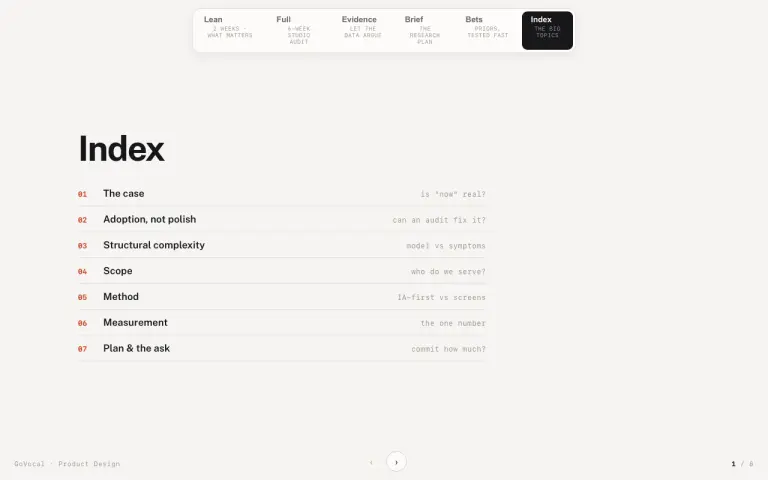
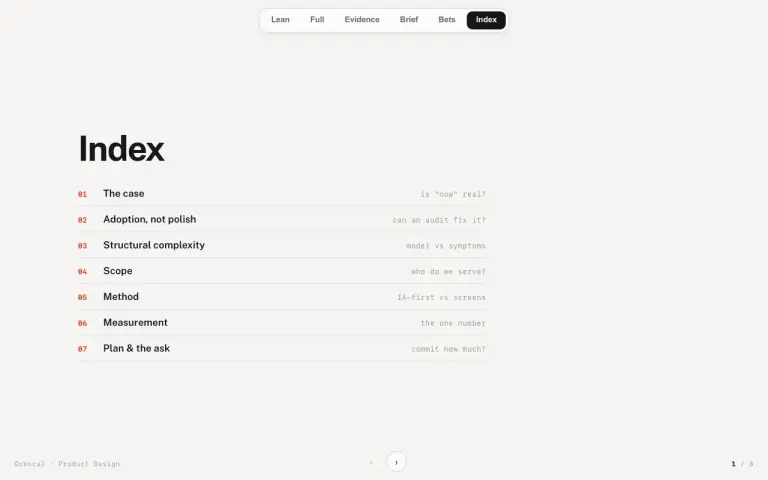
uxui-audit Index: outline-only topic slides; drop selector subtitles

Changed region(s): [[0.3438, 0.0, 0.75, 0.125], [0.25, 0.0312, 0.3125, 0.0938]]

diff --git a/playground/uxui-audit-project/index.html b/playground/uxui-audit-project/index.html
@@ -191,12 +191,12 @@
 <body data-mode="index">
 
   <nav class="switch" id="switch">
-    <button data-m="lean"><span class="t">Lean</span><span class="s">2 weeks · what matters</span></button>
-    <button data-m="full"><span class="t">Full</span><span class="s">6-week studio audit</span></button>
-    <button data-m="evidence"><span class="t">Evidence</span><span class="s">let the data argue</span></button>
-    <button data-m="brief"><span class="t">Brief</span><span class="s">the research plan</span></button>
-    <button data-m="bets"><span class="t">Bets</span><span class="s">priors, tested fast</span></button>
-    <button data-m="index" class="on"><span class="t">Index</span><span class="s">the big topics</span></button>
+    <button data-m="lean"><span class="t">Lean</span></button>
+    <button data-m="full"><span class="t">Full</span></button>
+    <button data-m="evidence"><span class="t">Evidence</span></button>
+    <button data-m="brief"><span class="t">Brief</span></button>
+    <button data-m="bets"><span class="t">Bets</span></button>
+    <button data-m="index" class="on"><span class="t">Index</span></button>
   </nav>
   <div class="progress" id="progress"></div>
 
@@ -965,92 +965,84 @@
 
     <section class="slide">
       <div class="slide-inner">
-        <p class="eyebrow">01 · the case</p>
-        <h2>Why now — or are we manufacturing the urgency?</h2>
-        <p class="lead">Three forces converge: <b>cost</b> (393 dispatch tickets, 68 still open), <b>competition</b> (Polis on deliberation, EngagementHQ on back-office maturity), and <b>compliance</b> (the European Accessibility Act in force since June 2025).</p>
-        <div class="grid g2">
-          <div class="card"><span class="lab">The honest case</span><p>The backlog is real and dated; the law has a deadline that already passed. This isn't a hunch — it's evidence with timestamps.</p></div>
-          <div class="card kill"><span class="lab">The challenge to it</span><p>A live sweep showed the product already fixed several old findings. Are we riding genuine urgency — or dressing a standing wish as a crisis?</p></div>
-        </div>
-        <div class="seam"><b>Decide Friday:</b> which single force leads the story? Compliance makes it a gate, not a vision. Adoption makes the tickets a sideshow. We can't headline all three.</div>
+        <h2>1 · The case — why now</h2>
+        <ul class="clean">
+          <li><b>Cost</b> — the 2026 support backlog (393 tickets, 68 open)</li>
+          <li><b>Competition</b> — Polis, EngagementHQ, Decidim</li>
+          <li><b>Compliance</b> — European Accessibility Act in force</li>
+        </ul>
       </div>
     </section>
 
     <section class="slide">
       <div class="slide-inner">
-        <p class="eyebrow">02 · adoption, not polish</p>
-        <h2>The real problem is adoption. Can a UX/UI audit even fix that?</h2>
-        <p class="lead">Your brief leads here: project managers aren't adopting, infrequent users can't find their way back in, the tool feels too complex. "How might we get more people using it, sooner."</p>
-        <div class="grid g2">
-          <div class="card"><span class="lab">If it's a UX problem</span><p>Then findability, nesting and onboarding are the levers — an audit's home turf, and we can move them in weeks.</p></div>
-          <div class="card kill"><span class="lab">If it's a product problem</span><p>Then the fix is sunsetting features, changing workflows, integrating with Microsoft / SharePoint — beyond what a screen audit can touch.</p></div>
-        </div>
-        <div class="seam"><b>Decide Friday:</b> how far past "UI" is this audit allowed to range? If adoption is the goal, we may recommend killing features and rewiring workflows. Is that the mandate — or are we scoped to polish?</div>
+        <h2>2 · Adoption, not polish</h2>
+        <ul class="clean">
+          <li>PMs not adopting; infrequent users can't find their way back in</li>
+          <li>The tool feels too complex</li>
+          <li>Goal — more people using it, sooner</li>
+          <li>A UX problem, or a product / operating-model one?</li>
+        </ul>
       </div>
     </section>
 
     <section class="slide">
       <div class="slide-inner">
-        <p class="eyebrow">03 · structural complexity</p>
-        <h2>The complexity <span class="accent">is the model.</span> You can't restyle it away.</h2>
-        <p class="lead">Eleven back-office destinations, a survey edit six URL levels below <code>/admin</code>, the same setting (tags, access-rights, emails) configured in two homes — all projections of one spine: Project → Phase → Method.</p>
-        <div class="grid g2">
-          <div class="card"><span class="lab">Preserve, re-surface</span><p>Keep the expressive model; hide it behind progressive disclosure + templates so the simple town gets a short path. Choice A in your architecture map.</p></div>
-          <div class="card kill"><span class="lab">Challenge the model</span><p>Or go deeper — sunset folders / spaces, flatten the spine. But that's product and data-model work, not a redesign, and it needs engineering to cost.</p></div>
-        </div>
-        <div class="seam"><b>Decide Friday:</b> where's the line between <b>design</b> (changeable now) and <b>product / technical</b> (expensive, needs Koen &amp; James)? We need that line drawn before we promise an outcome.</div>
+        <h2>3 · Structural complexity</h2>
+        <ul class="clean">
+          <li>The Project → Phase → Method spine</li>
+          <li>Eleven back-office destinations</li>
+          <li>Same setting in two homes — tags, access-rights, emails</li>
+          <li>Sunsetting — folders / spaces</li>
+          <li>The design vs product / technical line</li>
+        </ul>
       </div>
     </section>
 
     <section class="slide">
       <div class="slide-inner">
-        <p class="eyebrow">04 · scope</p>
-        <h2>The whole loop — but who do we actually optimise for?</h2>
-        <p class="lead">One service, two surfaces: the resident front office (mobile) and the staff back office. Personas widen past power admins to <b>project managers and cross-department</b> users — plus residents (rare, engaged, skeptic).</p>
-        <div class="grid g2">
-          <div class="card"><span class="lab">Follow the evidence</span><p>The tickets are loudest on back-office <em>output trust</em> — reporting, AI-ignores-filter, emails. That's where the pain is countable.</p></div>
-          <div class="card kill"><span class="lab">Follow the brief</span><p>Adoption says lead with the infrequent PM getting in and finding their way — which the backlog barely registers. The two don't point the same way.</p></div>
-        </div>
-        <div class="seam"><b>Decide Friday:</b> wide (both surfaces, thin) or deep (one surface, one segment)? Six weeks won't do both surfaces justice — we pick depth, or we pick coverage.</div>
+        <h2>4 · Scope</h2>
+        <ul class="clean">
+          <li>Two surfaces — front office (mobile) + back office</li>
+          <li>The whole loop, as one service</li>
+          <li>Personas — project managers, cross-department, residents</li>
+          <li>Dimensions — usability / IA, AI-trust, accessibility</li>
+        </ul>
       </div>
     </section>
 
     <section class="slide">
       <div class="slide-inner">
-        <p class="eyebrow">05 · method</p>
-        <h2>Workflows &amp; IA first — even though auditing screens is faster.</h2>
-        <p class="lead">Your steer: map core workflows and information architecture <em>before</em> any design. The studio spine underneath — Double Diamond, service blueprint, method-for-the-question, triangulate qual + quant.</p>
-        <div class="grid g2">
-          <div class="card"><span class="lab">Audit the screens</span><p>Fast, evidence-rich, already underway — but risks fixing symptoms on top of a structure we never questioned.</p></div>
-          <div class="card kill"><span class="lab">Map IA blank-slate</span><p>Slower, more strategic — the brief's ask. Holds us to "problems are clear, solutions aren't": validate direction before committing six months.</p></div>
-        </div>
-        <div class="seam"><b>Decide Friday:</b> how much do we validate before we build? A two-week probe sprint, or a six-week IA-first study? Same evidence, very different cadence.</div>
+        <h2>5 · Method</h2>
+        <ul class="clean">
+          <li>Workflows &amp; IA first, then design</li>
+          <li>Double Diamond + service blueprint</li>
+          <li>Method → question; triangulate qual + quant</li>
+          <li>Problem confidence vs solution confidence</li>
+        </ul>
       </div>
     </section>
 
     <section class="slide">
       <div class="slide-inner">
-        <p class="eyebrow">06 · measurement</p>
-        <h2>If we can't baseline it <span class="accent">now,</span> we can't prove we fixed it.</h2>
-        <p class="lead">Capture a baseline before any change — NPS plus task-success on the core jobs — and re-measure the same tasks after. It's the only defensible ROI claim.</p>
-        <div class="grid g2">
-          <div class="card"><span class="lab">The candidates</span><p>Satisfaction (NPS) · adoption (active PMs, return rate) · cost (ticket volume) · civic (participation, representativeness — who showed up vs the city).</p></div>
-          <div class="card kill"><span class="lab">The honesty flag</span><p>SUS ≈68, SEQ ≈5.5, ~78% success are <em>industry</em> averages — useful to start, but we must re-base on our own data or the comparison lies.</p></div>
-        </div>
-        <div class="seam"><b>Decide Friday:</b> the <b>one number</b> we'll be judged on in six months — and capture its baseline this week, before anything changes.</div>
+        <h2>6 · Measurement</h2>
+        <ul class="clean">
+          <li>Baseline now, re-measure the same tasks</li>
+          <li>Candidates — NPS, adoption, ticket volume, representativeness</li>
+          <li>Pick one north-star number</li>
+        </ul>
       </div>
     </section>
 
     <section class="slide">
       <div class="slide-inner">
-        <p class="eyebrow">07 · plan &amp; the ask</p>
-        <h2>How much do we commit <span class="accent">before</span> we've validated?</h2>
-        <p class="lead">Three shapes are on the table — the same evidence, different bets on certainty. Each is its own deck up top: Lean, Full / Brief, Bets.</p>
-        <div class="grid g2">
-          <div class="card"><span class="lab">Probe sprint · 2 weeks</span><p>Build rough prototypes as instruments, test the named bets with 5 residents + admins, return confirmed / killed / reshaped. Wrong-fast and cheap.</p></div>
-          <div class="card"><span class="lab">Studio audit · 6 weeks</span><p>Discover → Define → Develop → Deliver with stakeholder gates. Slower, more rigorous, more defensible to Wietse and the Circle.</p></div>
-        </div>
-        <div class="seam"><b>The ask:</b> what do we want green-lit on Friday, and from whom? A little access (Intercom, analytics, demo accounts), a Maze seat, and a recurring slot — then we start Monday.</div>
+        <h2>7 · Plan &amp; the ask</h2>
+        <ul class="clean">
+          <li>Three shapes — lean / studio audit / probe sprint</li>
+          <li>Timeline — phases + stakeholder gates</li>
+          <li>Deliverables — friction inventory, blueprint, design principles, roadmap, quick wins</li>
+          <li>The ask</li>
+        </ul>
       </div>
     </section>
   </div>
